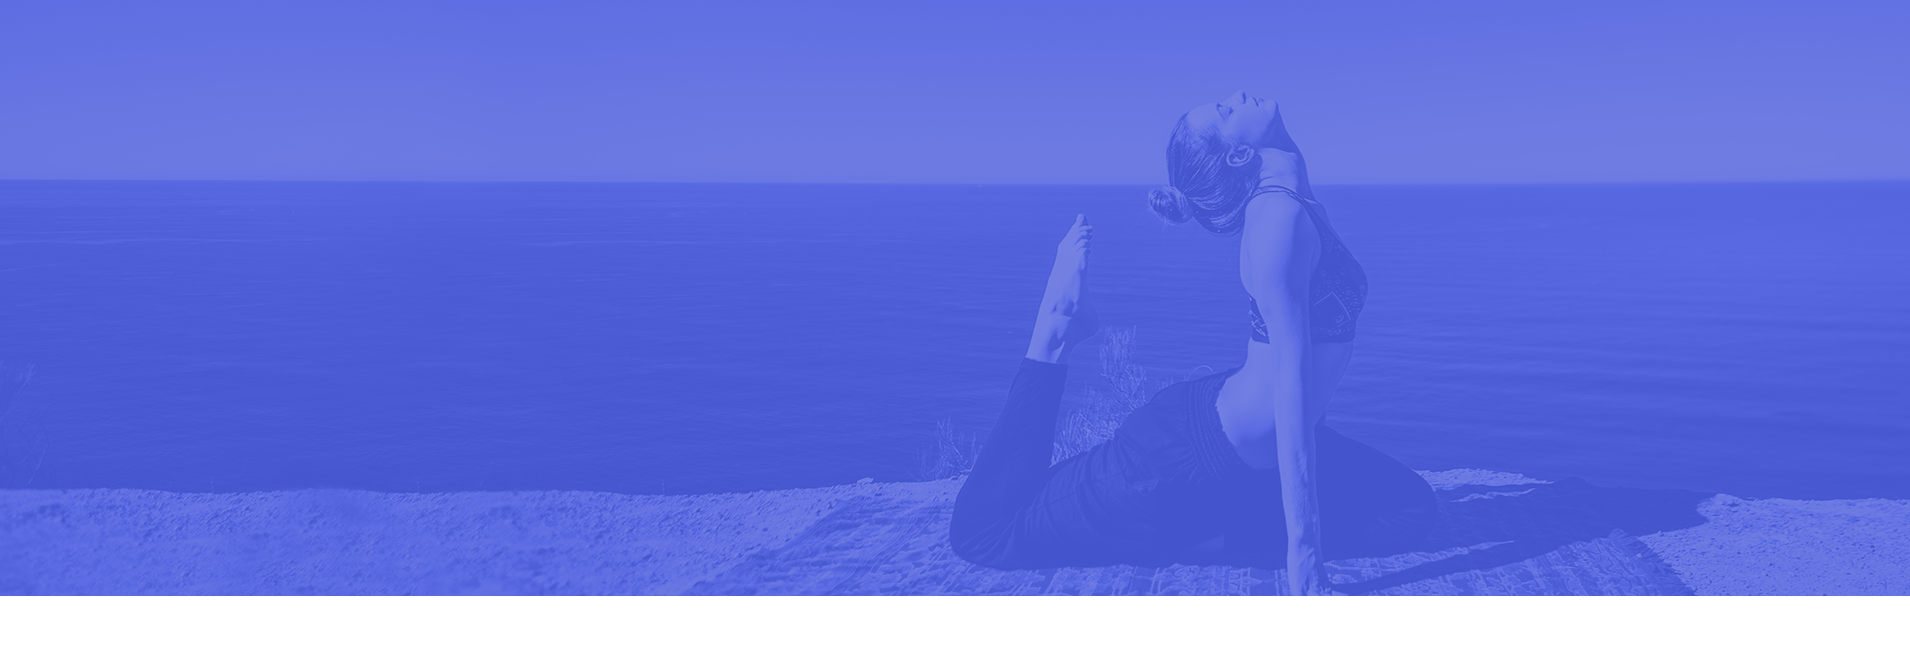
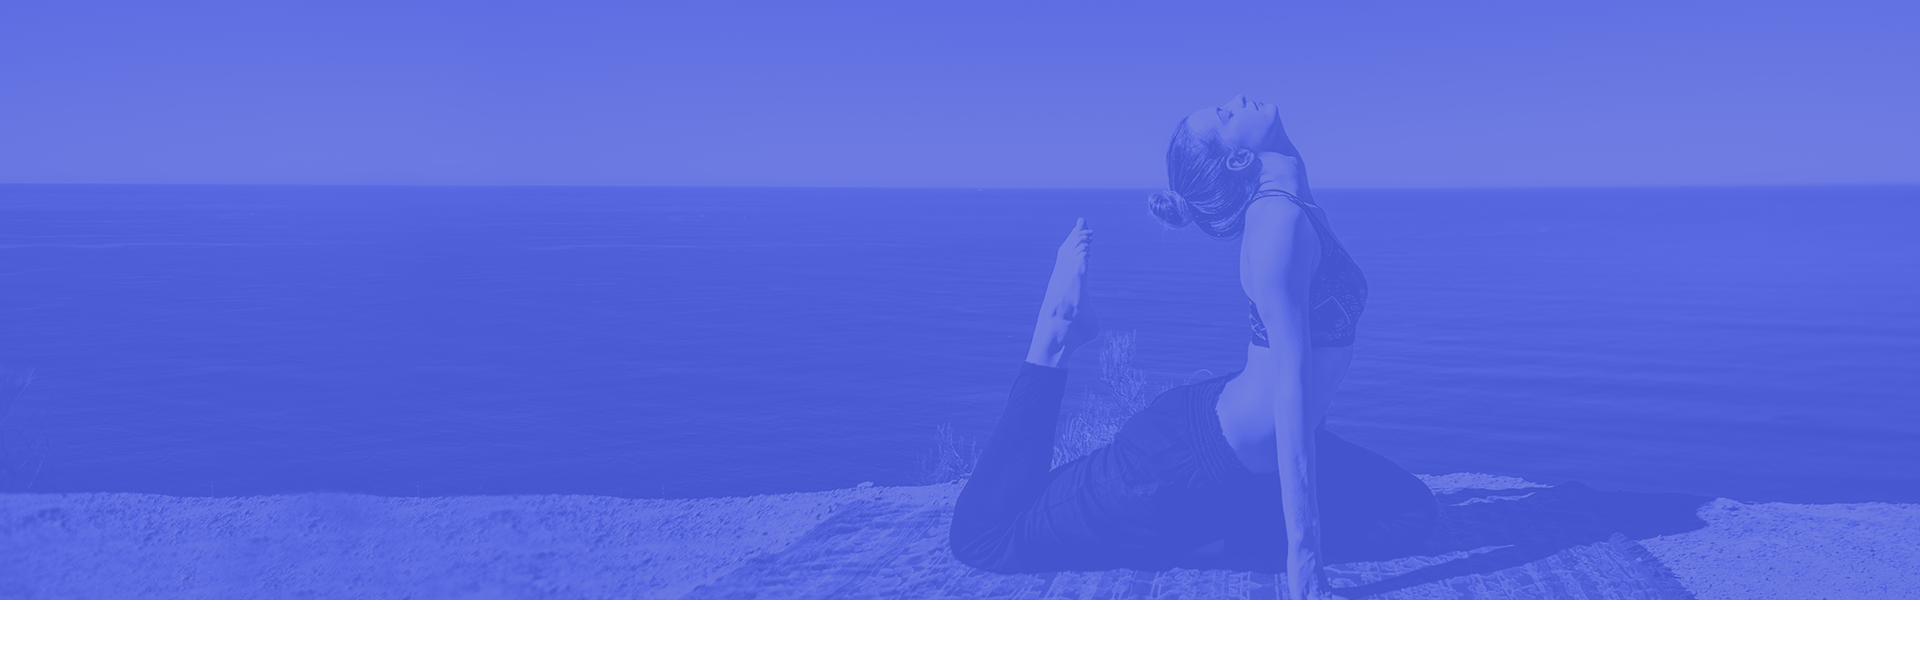
1

diff --git a/style/style.css b/style/style.css
@@ -12,68 +12,78 @@ a {
 .wrapper {
   display: flex;
   flex-direction: column;
+  /* width: 100%; */
+  width: 1920px;
   min-height: 100vh;
 }
 /* THE ALL SITE */
 
 /* HEADER */
 .header {
-  height: 80px;
+  /* height: 100px; */
   display: flex;
   justify-content: space-around;
   align-items: center;
 }
 
 .nav-left {
-  margin-left: 200px;
+  margin-left: 447px;
 }
 
 .nav-right {
-  margin-right: 200px;
+  margin-right: 511px;
 }
 
-li {
+.menu-box{
+  padding: 40px 0 43px;
+}
+
+.menu-box> li {
   display: inline;
 }
 
-li > a {
+.menu-box>li > a {
   color: #555555;
-  margin: 0 10px;
+  padding: 0 13px;
   font-family: "Open Sans", sans-serif;
+  font-weight: bold;
+  font-size: 14px;
 }
 
 .link {
   position: relative;
 }
 
-.active {
+.menu-box .active {
   color: #5363db;
 }
 
 .active:after {
   content: "";
   display: block;
-  width: 35px;
-  height: 1.5px;
+  width: 30px;
+  height: 1px;
   background: #5363db;
   position: absolute;
   top: 100%;
-  left: 15px;
-  margin-top: 5px;
+  left: 32%;
+  margin-top: 2px;
 }
 
 .logo {
   display: flex;
   flex-direction: column;
   align-items: center;
+  padding: 3px 0 2px 0;
 }
 
 .logo > h1 {
   font-family: "Champagne & Limousines", sans-serif;
   font-weight: bold;
-  font-size: 20px;
+  font-size: 24px;
   color: #6a78e0;
-  padding-top: 5px;
+  padding: 5px 0 0 3px ;
+  letter-spacing: 2px;
 }
 /* HEADER */
 
@@ -93,75 +103,87 @@ li > a {
 .form {
   position: absolute;
   background: white;
-  border-radius: 12.5px;
+  border-radius: 20px;
   height: auto;
-  top: 40px;
-  left: 390px;
+  top: 100px;
+  left: 615px;
   display: flex;
   flex-direction: column;
+  /* justify-content: center; */
+  align-content: center;
 }
 
 .form>p{
   color: #5363db;
-  font-family: "Open Sans", sans-serif;
-  font-size: 25px;
-  margin: 30px 110px 30px 30px;
+  font-family: "Open Sans", sans-serif;font-weight: bold;
+  font-size: 25.64px;
+  margin: 38px 140px 13px 34px;
 }
 
 .form>input{
-  margin: 0 0 15px 25px;
-  width: 200px;
-  height: 30px;
+  margin: 17px 0 0 30px;
+  padding: 0 8px;
+  /* width: 230px; */
+  height: 50px;
   font-size: 14px;
+  font-family: 'Open Sans', sans-serif;
   background: #f2f2f2;
   border-radius: 8px;
-  padding-left: 10px;
+  word-spacing: -1px;
   border: 1px #f2f2f2 solid;
 }
 
-input:nth-child(4):after{
+/* input:nth-child(4):after{ 
   content: '56';
   background: red;
-}
+} */
 
 .form-link{
   background: #475bf1;
-  border-radius: 10px;
+  border-radius: 8px;
   color: white;
-  width: 130px;
-  height: 50px;
+  width: 170px;
+  /* height: 50px; */
   text-align: center;
-  padding-top: 15px;
-  margin: 15px 0 30px 95px;
+  word-spacing: 2px;
+  padding: 16px 0;
+  margin: 30px 0 35px 95px;
   font-family: "Open Sans", sans-serif;
+  font-weight: bold;
+  font-size: 16px;
 }
 
-.form>select{
+/* .form>select{ 
   width: 15px;
   left: 205px;
   bottom: 115px;
   border: 1px #f2f2f2 solid;
   background: #f2f2f2;
   position: absolute;
-}
+}*/
 
 .text-on-fone{
   position: absolute;
-  top: 80px;
-  right: 170px;
+  top: 158px;
+  right: 430px;
+  word-spacing: 3px;
   color: white;
   
 }
 
 .text-on-fone>h1{
-  font-size: 45px;
+  font-size: 48px;
   text-transform: uppercase;
-  font-family: "Open Sans", sans-serif;line-height: 1.4;
+  font-family: "Open Sans", sans-serif;
+  font-weight: bold;
+  line-height: 1.45;
   margin-bottom: 20px;
 }
 
 .text-on-fone>p{
-  font-size: 38px;
+  font-size: 40px;
+  padding-top: 10px;
+  word-spacing: 18px;
   font-family: "Freestyle Script";
   line-height: 1.2;
 }

diff --git a/index.html b/index.html
@@ -15,13 +15,18 @@
       href="https://fonts.googleapis.com/css?family=Open+Sans:600&display=swap"
       rel="stylesheet"
     />
-    <link href="//db.onlinewebfonts.com/c/f5bd594fdf1873d09eff1f4718ff2141?family=Freestyle+Script" rel="stylesheet" type="text/css"/>
+    <link
+      href="//db.onlinewebfonts.com/c/f5bd594fdf1873d09eff1f4718ff2141?family=Freestyle+Script"
+      rel="stylesheet"
+      type="text/css"
+    />
+    <link href="https://fonts.googleapis.com/css?family=Open+Sans&display=swap" rel="stylesheet">
   </head>
   <body>
     <div class="wrapper">
       <header class="header">
         <nav class="nav-left">
-          <ul>
+          <ul class="menu-box">
             <li><a class="link active" href="#">About us</a></li>
             <li><a href="#">Reservation</a></li>
             <li><a href="#">Gallery</a></li>
@@ -34,7 +39,7 @@
         </div>
 
         <nav class="nav-right">
-          <ul>
+          <ul class="menu-box">
             <li><a href="#">Blog</a></li>
             <li><a href="#">Elements</a></li>
             <li><a href="#">Shop</a></li>
@@ -50,18 +55,24 @@
             alt="matthew-kane-94147"
           />
 
-          <div class="form">
+          <form class="form">
             <p>Trial Class</p>
             <input maxlength="25" placeholder="Enter your name" type="text" />
             <input maxlength="13" placeholder="Enter your phone" type="text" />
-            <input maxlength="25" placeholder="Chose your class" type="text" />
-            <select></select>
+            <input id="s" maxlength="25" placeholder="Chose your class" type="text" />
+            <!-- <select for="s"></select> -->
             <a class="form-link" href="#">Try it</a>
-          </div>
+          </form>
 
           <div class="text-on-fone">
-            <h1>Just Balance <br> your Mind & Body</h1>
-            <p>Create the healthy living <br> for yourself</p>
+            <h1>
+              Just Balance <br />
+              your Mind & Body
+            </h1>
+            <p>
+              Create the healthy living <br />
+              for yourself
+            </p>
           </div>
         </div>
       </main>
